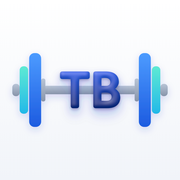
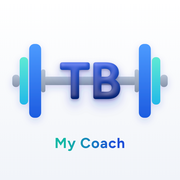
Icône de l'app : ajoute « My Coach » en dégradé sous l'haltère
Claude-Session: https://claude.ai/code/session_01NiCUkwBnohH25ZY85CCJBW

diff --git a/index.html b/index.html
@@ -6,7 +6,7 @@
 <title>TB my Coach</title>
 <meta name="apple-mobile-web-app-capable" content="yes"><meta name="mobile-web-app-capable" content="yes">
 <meta name="apple-mobile-web-app-status-bar-style" content="default"><meta name="apple-mobile-web-app-title" content="TB my Coach"><link rel="icon" href="favicon.ico"><link rel="icon" type="image/png" sizes="192x192" href="icon-192.png">
-<meta name="theme-color" content="#EEF1F6" media="(prefers-color-scheme: light)"><meta name="theme-color" content="#000000" media="(prefers-color-scheme: dark)"><link rel="manifest" href="manifest.webmanifest"><link rel="apple-touch-icon" href="apple-touch-icon.png">
+<meta name="theme-color" content="#EEF1F6" media="(prefers-color-scheme: light)"><meta name="theme-color" content="#000000" media="(prefers-color-scheme: dark)"><link rel="manifest" href="manifest.webmanifest"><link rel="apple-touch-icon" href="apple-touch-icon.png?v=3">
 <script src="https://cdn.jsdelivr.net/npm/@supabase/supabase-js@2/dist/umd/supabase.js"></script>
 <link rel="preconnect" href="https://fonts.googleapis.com">
 <link href="https://fonts.googleapis.com/css2?family=Barlow+Condensed:wght@500;600;700&family=Barlow:wght@400;500;600&display=swap" rel="stylesheet">

diff --git a/coaching.html b/coaching.html
@@ -6,7 +6,7 @@
 <title>Coaching sportif · Thomas Boulet</title>
 <meta name="description" content="Coaching sportif en ligne par Thomas Boulet, coach diplômé STAPS : cycle de 12 semaines, programme individualisé et suivi dans une app dédiée.">
 <link rel="icon" href="favicon.ico">
-<link rel="apple-touch-icon" href="apple-touch-icon.png">
+<link rel="apple-touch-icon" href="apple-touch-icon.png?v=3">
 <meta name="theme-color" content="#11182A">
 <meta property="og:title" content="Coaching sportif · Thomas Boulet">
 <meta property="og:description" content="Cycle de 12 semaines, programme individualisé, suivi dans une app dédiée.">

diff --git a/sw.js b/sw.js
@@ -1,4 +1,4 @@
-const C="tb-v22";
+const C="tb-v23";
 self.addEventListener("install",e=>{ e.waitUntil(caches.open(C).then(c=>c.addAll(["./","./index.html","./manifest.webmanifest","./icon-192.png"]).catch(()=>{}))); self.skipWaiting(); });
 self.addEventListener("activate",e=>{ e.waitUntil(caches.keys().then(k=>Promise.all(k.filter(x=>x!==C).map(x=>caches.delete(x))))); self.clients.claim(); });
 self.addEventListener("fetch",e=>{ const r=e.request; if(r.method!=="GET") return; const u=new URL(r.url);
